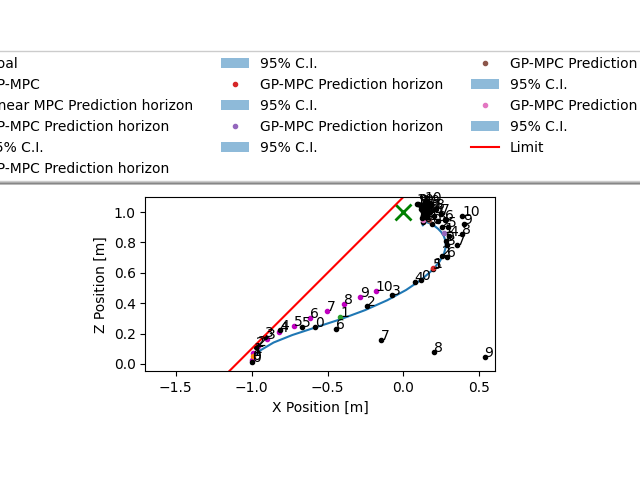
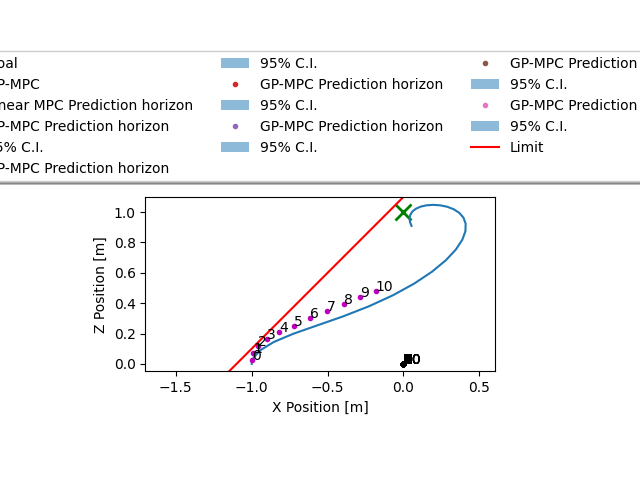
corrected for covariance. now produces plots

diff --git a/safe_control_gym/controllers/mpc/foresee_cbf_qp_cov.py b/safe_control_gym/controllers/mpc/foresee_cbf_qp_cov.py
@@ -148,7 +148,7 @@ class FORESEE_CBF_QP_COV(MPC):
         # kT2y = 1.0
         # kT20 = 5.0
      
-        self.adapt = True
+        self.adapt = False
         self.num_adapt_iterations = 10
 
         self.params = np.array([ kx, kv, krx, kR, kRv ])
@@ -291,27 +291,29 @@ class FORESEE_CBF_QP_COV(MPC):
             new_weights = jnp.zeros((2*n+1,N))
 
             mu = get_mean(sigma_points, weights)
-            u = FORESEE_CBF_QP_COV.controller(params, mu.reshape(-1,1), X_GOAL, consA, consb).reshape(-1,1)
+            control = FORESEE_CBF_QP_COV.controller(params, mu.reshape(-1,1), X_GOAL, consA, consb).reshape(-1,1)
 
             # for i in range(N):
-            #     u = FORESEE_CBF_QP_COV.controller(params, sigma_points[:,i].reshape(-1,1), X_GOAL, consA, consb).reshape(-1,1)
-            #     z = jnp.append( sigma_points[:,i].reshape(-1,1), u, axis=0 )
+            #     # control = FORESEE_CBF_QP_COV.controller(params, sigma_points[:,i].reshape(-1,1), X_GOAL, consA, consb).reshape(-1,1)
+            #     z = jnp.append( sigma_points[:,i].reshape(-1,1), control, axis=0 )
             #     pred_mu, next_state_cov = self.gaussian_process.jax_predict(z=z)
+            #     # pdb.set_trace()
             #     next_state_cov_root = get_ut_cov_root_diagonal(next_state_cov)    
-            #     next_state_mu = sigma_points[:,i].reshape(-1,1) - x_eq + (A @ (sigma_points[:,i].reshape(-1,1) - x_eq) + B @ (u - u_eq))*dt + x_eq + pred_mu           
+            #     next_state_mu = sigma_points[:,i].reshape(-1,1) - x_eq + (A @ (sigma_points[:,i].reshape(-1,1) - x_eq) + B @ (control - u_eq))*dt + x_eq + pred_mu           
             #     # pdb.set_trace()            
             #     temp_points, temp_weights = generate_sigma_points_gaussian( next_state_mu, next_state_cov_root, jnp.zeros((n,1)), 1.0 )
+            #     pdb.set_trace()
             #     new_points = new_points.at[:,i].set( temp_points.reshape(-1,1, order='F')[:,0] )
             #     new_weights = new_weights.at[:,i].set( temp_weights.reshape(-1,1, order='F')[:,0] * weights[:,i] )   
             # return_points, return_weights = new_points, new_weights
 
             def body(i, inputs):
                 new_points, new_weights = inputs        
-                # u = FORESEE_CBF_QP_COV.controller(params, sigma_points[:,i].reshape(-1,1), X_GOAL, consA, consb).reshape(-1,1)
-                z = jnp.append( sigma_points[:,i].reshape(-1,1), u, axis=0 )
+                # control = FORESEE_CBF_QP_COV.controller(params, sigma_points[:,i].reshape(-1,1), X_GOAL, consA, consb).reshape(-1,1)
+                z = jnp.append( sigma_points[:,i].reshape(-1,1), control, axis=0 )
                 pred_mu, next_state_cov = self.gaussian_process.jax_predict(z=z)
                 next_state_cov_root = get_ut_cov_root_diagonal(next_state_cov)    
-                next_state_mu = sigma_points[:,i].reshape(-1,1) - x_eq + (A @ (sigma_points[:,i].reshape(-1,1) - x_eq) + B @ (u - u_eq))*dt + x_eq + pred_mu                       
+                next_state_mu = sigma_points[:,i].reshape(-1,1) - x_eq + (A @ (sigma_points[:,i].reshape(-1,1) - x_eq) + B @ (control - u_eq))*dt + x_eq + pred_mu                       
                 temp_points, temp_weights = generate_sigma_points_gaussian( next_state_mu, next_state_cov_root, jnp.zeros((n,1)), 1.0 )
                 new_points = new_points.at[:,i].set( temp_points.reshape(-1,1, order='F')[:,0] )
                 new_weights = new_weights.at[:,i].set( temp_weights.reshape(-1,1, order='F')[:,0] * weights[:,i] )   
@@ -423,7 +425,7 @@ class FORESEE_CBF_QP_COV(MPC):
         mup, covp = self.gaussian_process.predict(z.T, return_pred=False)
         action = FORESEE_CBF_QP_COV.controller(self.params, obs.reshape(-1,1), x_goal, self.constraints.state_constraints[1].A, self.constraints.state_constraints[1].b)
         
-        
+        # pdb.set_trace()
         # Update parameters
         nx, nu = self.model.nx, self.model.nu
         T = self.T
@@ -439,7 +441,7 @@ class FORESEE_CBF_QP_COV(MPC):
         const = FORESEE_CBF_QP_COV.constraint_func( jnp.copy(self.params), obs.reshape(-1,1), A, B, x_eq, u_eq, x_goal, self.constraints.state_constraints[1].A, self.constraints.state_constraints[1].b )
         print(f"rewards: {reward}, gras:{grads}")
 
-        pdb.set_trace()
+        # pdb.set_trace()
 
         t0 = time.time()
         
@@ -495,8 +497,8 @@ class FORESEE_CBF_QP_COV(MPC):
             self.results_dict['state_horizon_cov'].append(state_covariances)
             self.results_dict['horizon_states'].append( mus )
         else:
-            self.results_dict['state_horizon_cov'].append(jnp.zeros((T+1, nx, nx)))
-            self.results_dict['horizon_states'].append( jnp.zeros((nx, T)) )
+            self.results_dict['state_horizon_cov'].append(np.zeros((T+1, nx, nx)))
+            self.results_dict['horizon_states'].append( np.zeros((nx, T+1)) )
 
 
                     

diff --git a/safe_control_gym/controllers/mpc/foresee_utils_jax.py b/safe_control_gym/controllers/mpc/foresee_utils_jax.py
@@ -47,7 +47,7 @@ def get_mean_cov(sigma_points, weights):
 def get_ut_cov_root_diagonal(cov):
     # return jnp.zeros((4,4))
     offset = 0.000  # TODO: make sure not zero here
-    root_term = jnp.diag( jnp.diagonal(cov)+offset  )
+    root_term = jnp.diag( jnp.sqrt(jnp.diagonal(cov)+offset)  )
     return root_term
     
     #root0 = jnp.sqrt((offset+cov[0,0]))
@@ -77,15 +77,10 @@ def get_mean_cov_skew_kurt_for_generation( sigma_points, weights ):
     cov = jnp.diag(jnp.sum(centered_points**2 * weights[0], axis=1))
     
     skewness_temp = jnp.sum(centered_points**3 * weights[0], axis=1) #/ cov[0,0]**(3/2) # for scipy    
-    skewness = skewness_temp[0] / cov[0,0]**(3/2)
-    skewness = jnp.append(skewness, skewness_temp[1] / cov[1,1]**(3/2))
-    skewness = jnp.append(skewness, skewness_temp[2] / cov[2,2]**(3/2))
-    skewness = jnp.append(skewness, skewness_temp[3] / cov[3,3]**(3/2))
+    skewness = skewness_temp / jnp.diag(cov)**(3/2)
+
     kurt_temp = jnp.sum(centered_points**4 * weights[0], axis=1)# / cov[0,0]**(4/2)  # -3 # -3 for scipy
-    kurt = kurt_temp[0]/cov[0,0]**(4/2)
-    kurt = jnp.append(kurt, kurt_temp[1]/cov[1,1]**(4/2))
-    kurt = jnp.append(kurt, kurt_temp[2]/cov[2,2]**(4/2))
-    kurt = jnp.append(kurt, kurt_temp[3]/cov[3,3]**(4/2))
+    kurt = kurt_temp / jnp.diag(cov)**(4/2)
 
     return mu, cov, skewness.reshape(-1,1), kurt.reshape(-1,1)
 
